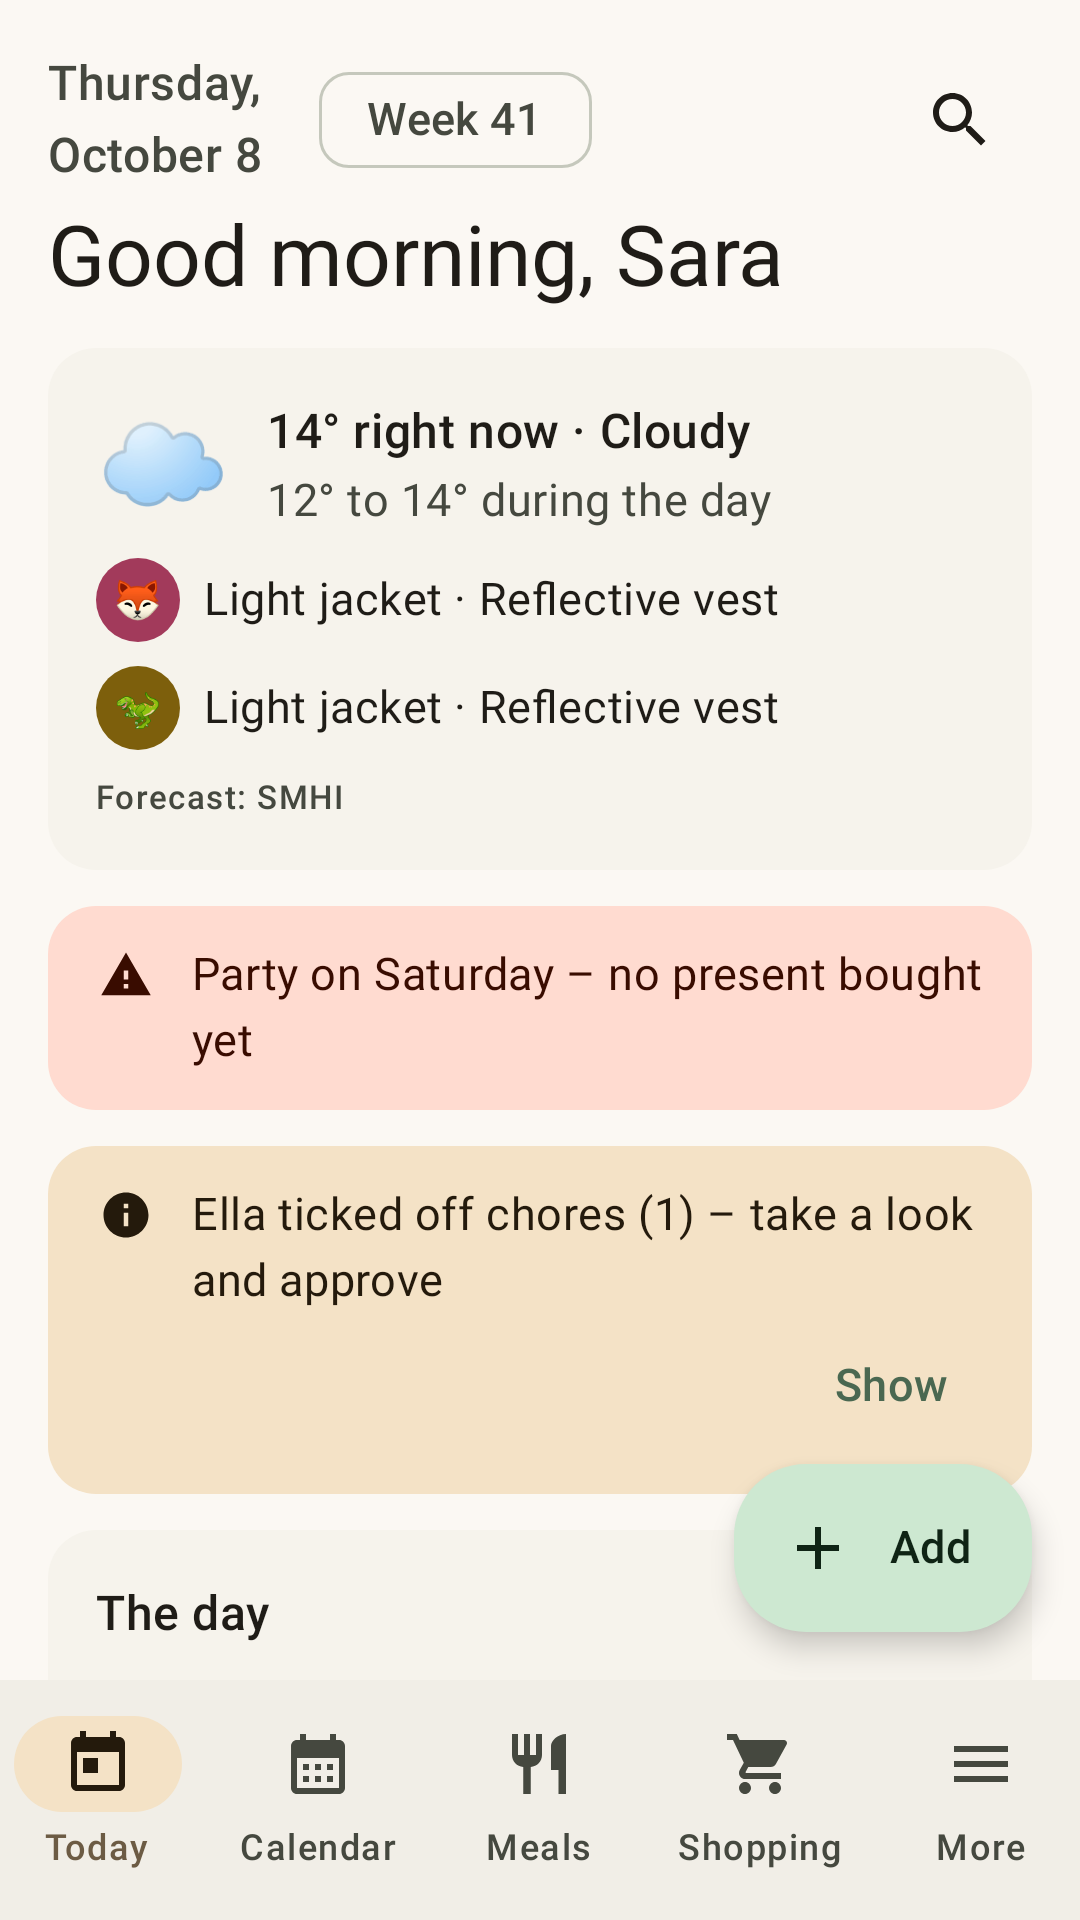
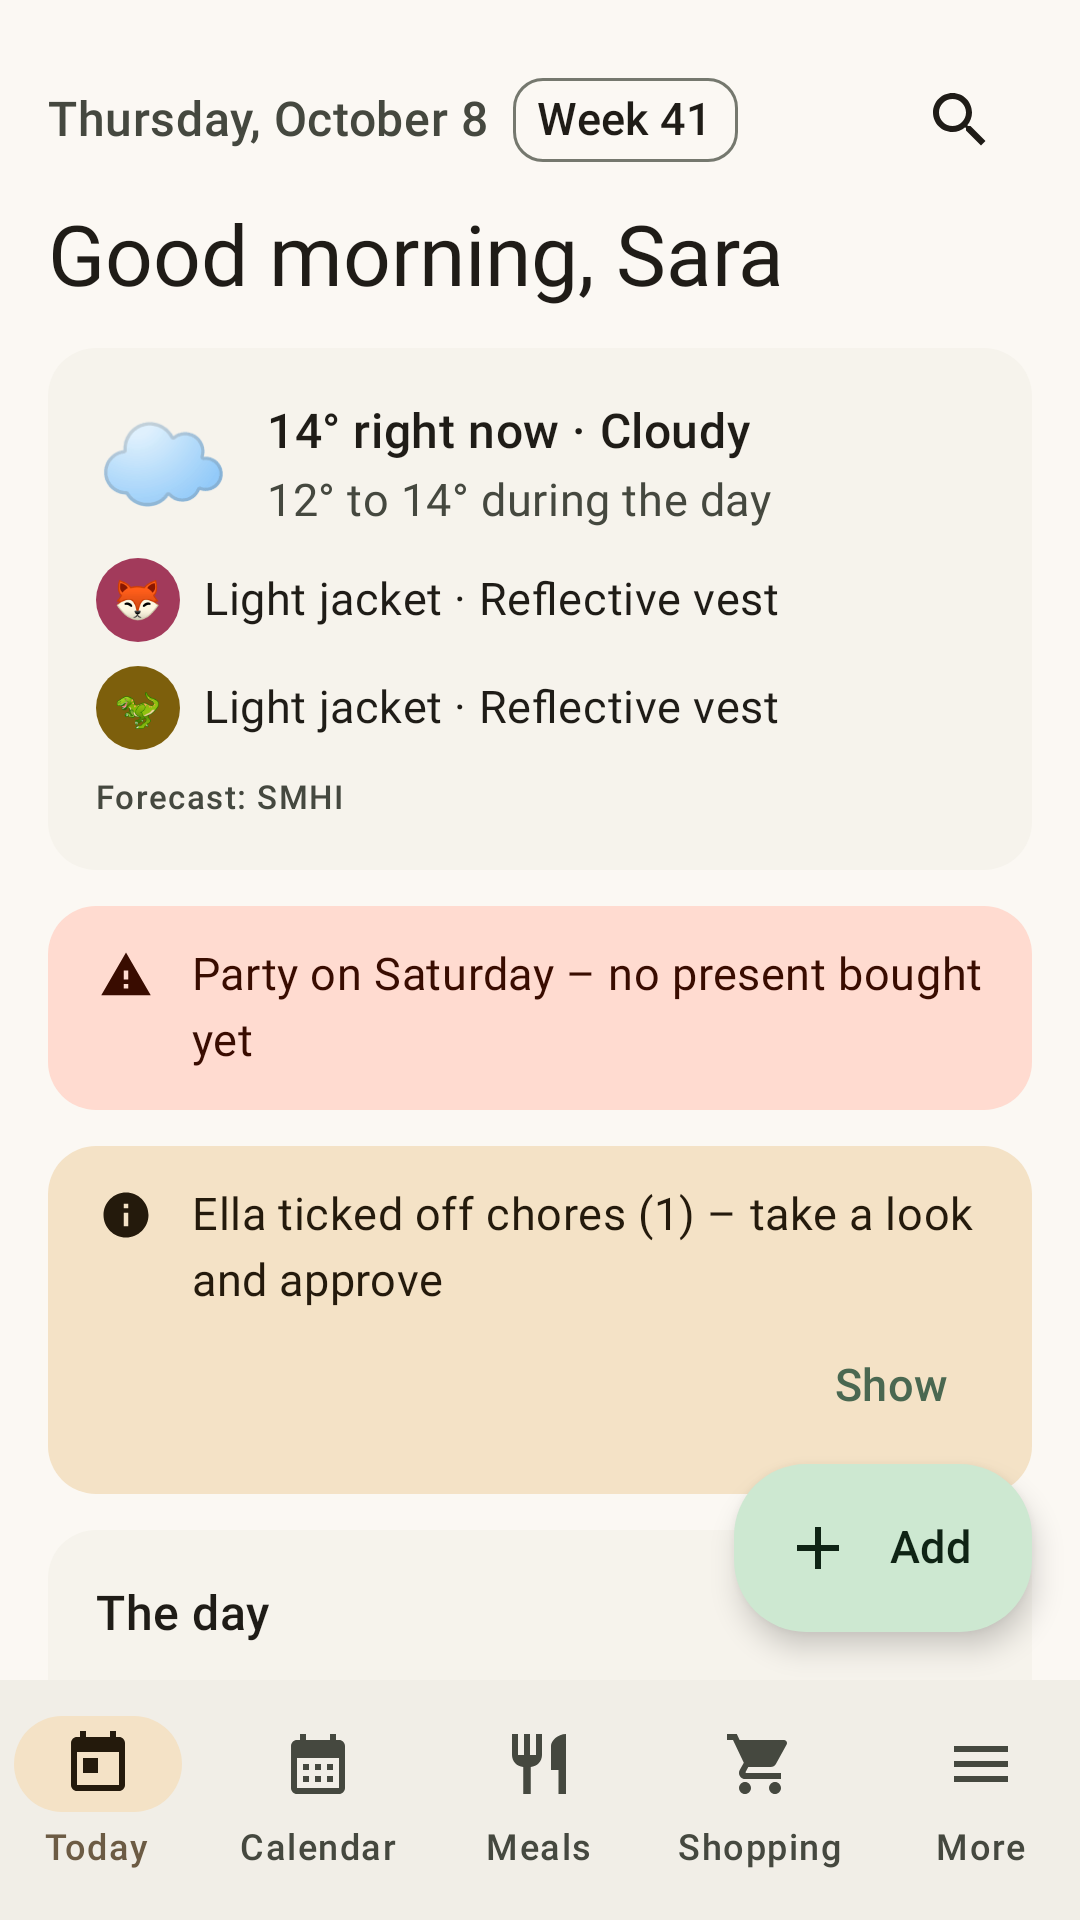
fix(today): the date fits next to the week, and the week is a label, not a button
On 360 dp phones "Torsdag 8 oktober" wrapped because a spacer shared the
free width with the date. The week was a SuggestionChip with an empty
click, read out as a button that does nothing; it is now a plain badge.

Also: the screenshot goldens were never compared, so two task screens and
the More screen had drifted since phase 5. They are re-recorded (checked
by eye), CI compares them (warning only until stable on Linux) and
CLAUDE.md lists verifyRoborazziDemoDebug.

Changed region(s): [[0.275, 0.0312, 0.6722, 0.0938], [0.0306, 0.0312, 0.2444, 0.0938]]

diff --git a/shared/feature-today/src/commonMain/kotlin/se/pusslet/feature/today/TodayScreen.kt b/shared/feature-today/src/commonMain/kotlin/se/pusslet/feature/today/TodayScreen.kt
@@ -1,5 +1,6 @@
 package se.pusslet.feature.today
 
+import androidx.compose.foundation.BorderStroke
 import androidx.compose.foundation.layout.Arrangement
 import androidx.compose.foundation.layout.Column
 import androidx.compose.foundation.layout.FlowRow
@@ -20,7 +21,7 @@ import androidx.compose.material3.AssistChip
 import androidx.compose.material3.Icon
 import androidx.compose.material3.IconButton
 import androidx.compose.material3.MaterialTheme
-import androidx.compose.material3.SuggestionChip
+import androidx.compose.material3.Surface
 import androidx.compose.material3.Text
 import androidx.compose.runtime.Composable
 import androidx.compose.runtime.getValue
@@ -149,18 +150,41 @@ private fun cardKey(card: ContextCard): String = when (card) {
     is ContextCard.HandoverSoon -> "handover-${card.schedule.id}-${card.handover.date}"
 }
 
+/** "Vecka 41" as a plain label: it is information, not a button. */
+@Composable
+private fun WeekBadge(text: String) {
+    Surface(
+        shape = MaterialTheme.shapes.small,
+        border = BorderStroke(1.dp, MaterialTheme.colorScheme.outline),
+        color = MaterialTheme.colorScheme.surface,
+    ) {
+        Text(
+            text,
+            style = MaterialTheme.typography.labelLarge,
+            maxLines = 1,
+            modifier = Modifier.padding(horizontal = Spacing.sm, vertical = Spacing.xs),
+        )
+    }
+}
+
 @Composable
 private fun Header(state: TodayUiState, plan: TodayPlan, onSearch: () -> Unit) {
     Column(verticalArrangement = Arrangement.spacedBy(Spacing.xs)) {
-        Row(verticalAlignment = Alignment.CenterVertically, horizontalArrangement = Arrangement.spacedBy(Spacing.sm)) {
-            Text(
-                formatDateLong(plan.date).replaceFirstChar { it.uppercase() },
-                style = MaterialTheme.typography.titleMedium,
-                color = MaterialTheme.colorScheme.onSurfaceVariant,
-                modifier = Modifier.weight(1f, fill = false),
-            )
-            SuggestionChip(onClick = {}, label = { Text(weekLong(plan.week.week)) })
-            Spacer(Modifier.weight(1f))
+        Row(verticalAlignment = Alignment.CenterVertically) {
+            // The date gets all the room the week badge leaves; the search button stays at the end.
+            Row(
+                Modifier.weight(1f),
+                verticalAlignment = Alignment.CenterVertically,
+                horizontalArrangement = Arrangement.spacedBy(Spacing.sm),
+            ) {
+                Text(
+                    formatDateLong(plan.date).replaceFirstChar { it.uppercase() },
+                    style = MaterialTheme.typography.titleMedium,
+                    color = MaterialTheme.colorScheme.onSurfaceVariant,
+                    modifier = Modifier.weight(1f, fill = false),
+                )
+                WeekBadge(weekLong(plan.week.week))
+            }
             IconButton(onClick = onSearch) {
                 Icon(Icons.Filled.Search, contentDescription = stringResource(Res.string.search_title))
             }

diff --git a/CLAUDE.md b/CLAUDE.md
@@ -39,7 +39,8 @@ Use Git Bash (or any POSIX shell) from the repo root. JDK: Android Studio's bund
 ./gradlew ktlintCheck detekt                     # lint (ktlintFormat to auto-fix)
 ./gradlew build                                  # everything incl. lint, tests, all variants
 ./gradlew :composeApp:bundleProdRelease          # release AAB (needs signing config, see docs/SETUP.md)
-./gradlew :composeApp:recordRoborazziDemoDebug   # re-record screenshot goldens
+./gradlew :composeApp:recordRoborazziDemoDebug   # re-record screenshot goldens (look at them before committing)
+./gradlew :composeApp:verifyRoborazziDemoDebug   # compare against the goldens (plain test runs do not)
 cd functions && npm ci && npm test               # Firestore rules + functions tests (starts emulators)
 firebase emulators:start --project demo-pusslet  # local backend for the demo flavor
 ```
